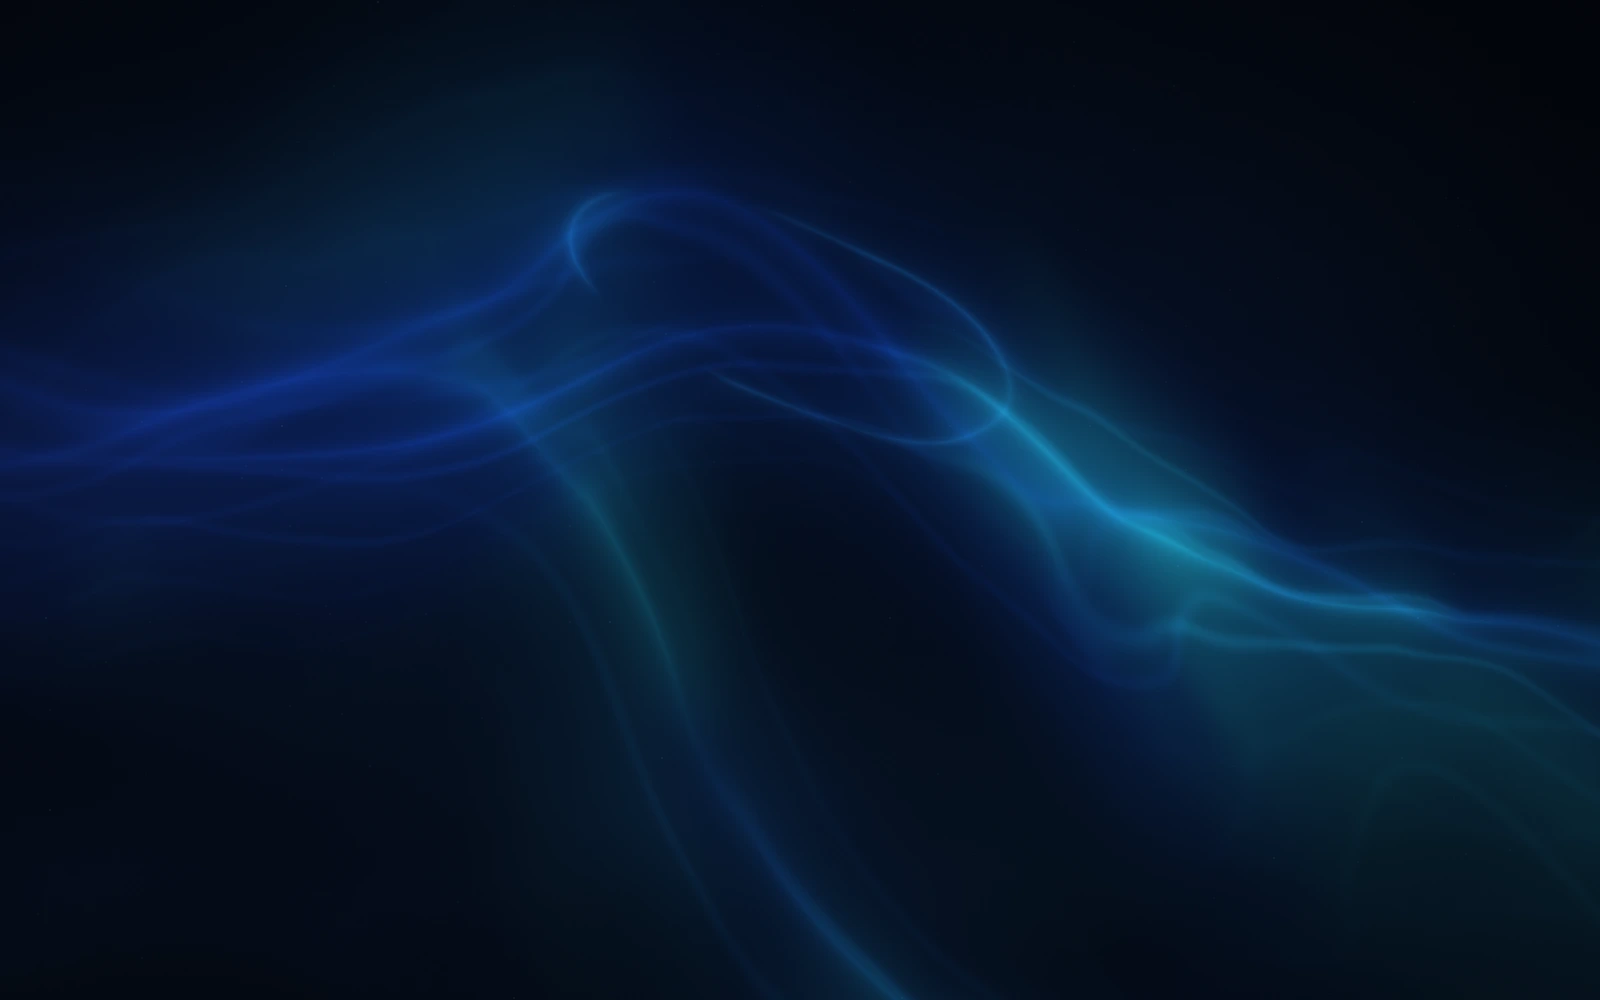
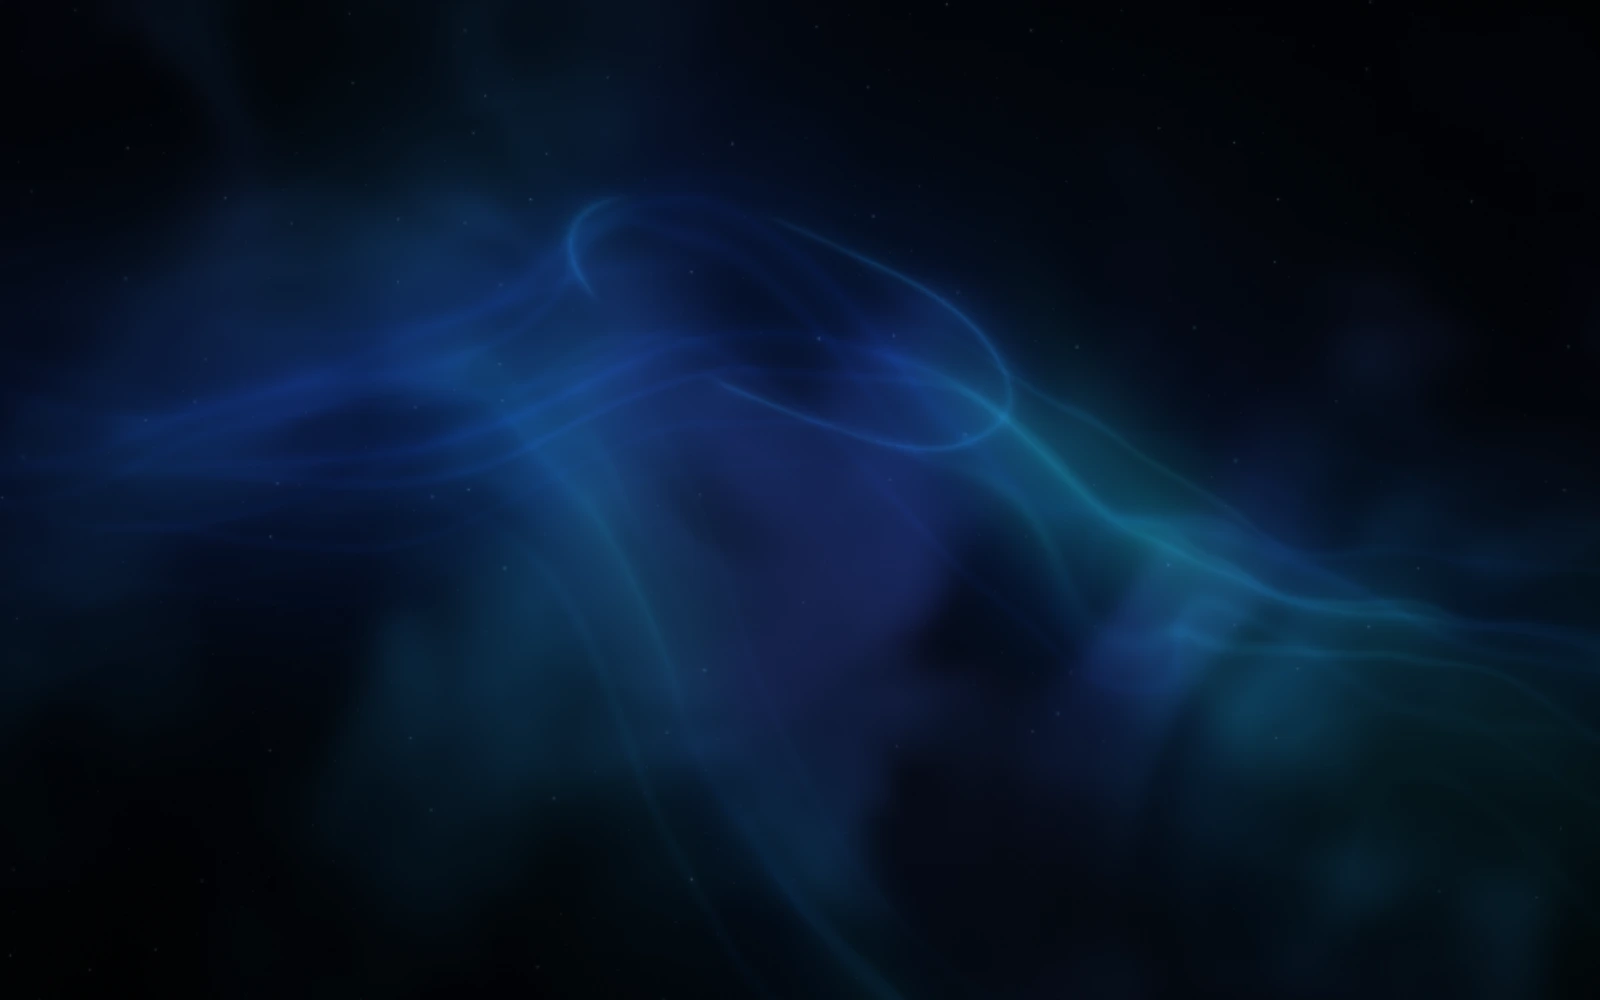
maybe thats what i want

diff --git a/src/frontend/src/lib/aurora/shaders.ts b/src/frontend/src/lib/aurora/shaders.ts
@@ -33,16 +33,46 @@ float fbm(vec2 p) {
   p = mat2(.8, -.6, .6, .8) * p * 2.01 + 7.3;
   return n + .09 * noise(p);
 }
+// Jittered cells avoid a visible grid. Each depth has its own scale, softness
+// and drift; the distant stars remain stationary while foreground dust moves.
+float stars(vec2 pixel, float spacing, float threshold, float radius) {
+  vec2 cell = floor(pixel/spacing);
+  vec2 center = vec2(hash(cell+17.3),hash(cell+41.8))*.6+.2;
+  vec2 delta = (fract(pixel/spacing)-center)*spacing;
+  float seed = hash(cell+9.1);
+  float core = exp(-dot(delta,delta)/(radius*radius));
+  float bloom = exp(-dot(delta,delta)/(radius*radius*12.0))*.045;
+  float shimmer = .83+.17*sin(time*.12+seed*129.0);
+  return (core+bloom)*step(threshold,seed)*(.35+.65*seed)*shimmer;
+}
 void main() {
   float scale = min(size.y, max(620.0, size.x * 1.4));
   // Top-down coordinates, shared with the DOM logo's measured position.
   vec2 p = (vec2(uv.x, 1.0-uv.y) * size - anchor) / scale;
   float t = time * .022;
   vec2 drift = vec2(t * .23, -t * .17);
-  float cloud = fbm(p * 2.1 + drift);
-  vec3 col = vec3(.006, .012, .027);
-  col += vec3(.008, .025, .055) * exp(-dot(p*vec2(.8,1.3),p*vec2(.8,1.3))*1.8);
-  col += vec3(.012, .025, .055) * cloud * cloud;
+  vec3 col = vec3(.003, .006, .015);
+
+  // Broad, irregular clouds sit behind the silk, with cooler emission in the
+  // depths and a little violet in the distant dust. Dark lanes absorb light
+  // instead of filling every empty region with an additive blue wash.
+  vec2 nebula = mat2(.91,-.41,.41,.91)*(p-vec2(.12,.22));
+  vec2 warp = vec2(fbm(nebula*1.7+drift*.3),fbm(nebula*1.9+vec2(8.1,2.4)-drift*.2));
+  float cloud = fbm(nebula*4.3+warp*2.6+drift*.14);
+  float wisps = fbm(nebula*10.0+warp*3.1-drift*.21);
+  float volume = exp(-nebula.y*nebula.y*2.7-nebula.x*nebula.x*.55);
+  float density = smoothstep(.23,.63,cloud)*volume;
+  float dustLane = smoothstep(.38,.65,fbm(nebula*3.1-warp*1.6+11.0));
+  float cavity = exp(-dot((p-vec2(.32,-.18))*vec2(1.8,2.6),(p-vec2(.32,-.18))*vec2(1.8,2.6)));
+  vec3 gas = mix(vec3(.066,.047,.15),vec3(.028,.17,.23),smoothstep(.26,.59,warp.x));
+  col += gas*density*(.36+wisps*.85)*(1.0-dustLane*.7)*(1.0-cavity*.52);
+  col += vec3(.018,.056,.105)*pow(density,2.0)*(1.0-dustLane)*1.2;
+  col += vec3(.009,.025,.048)*exp(-dot(p*vec2(.9,1.4),p*vec2(.9,1.4))*2.0);
+
+  vec2 sky = vec2(uv.x,1.0-uv.y)*size;
+  float extinction = 1.0-density*.62;
+  col += vec3(.48,.61,.83)*stars(sky,29.0,.73,.65)*.19*extinction;
+  col += vec3(.67,.81,1.0)*stars(sky+153.7,67.0,.79,1.05)*.43*extinction;
 
   // Three sheets occupy different depths. Domain warping changes their folds,
   // density and curvature, while broad scattering softens the fine filaments.
@@ -70,7 +100,7 @@ void main() {
     vec3 cyan = vec3(.12, .73, .82);
     vec3 tint = mix(blue, cyan, smoothstep(.28,.68,folds + p.x*.14));
     tint = mix(tint, vec3(.27,.19,.59), .14*smoothstep(.2,.8,-p.x));
-    col += tint * (veil + edge*.32 + scattering) * illumination * fade * 1.8;
+    col += tint * (veil + edge*.24 + scattering) * illumination * fade * 1.48;
   }
 
   // A broken, depth-occluded eddy curves into the mark. Its density comes
@@ -83,17 +113,15 @@ void main() {
   col += vec3(.12,.55,.82) * exp(-abs(eddyDistance)*210.0)*broken*.22;
   col += vec3(.025,.12,.20) * exp(-eddyDistance*eddyDistance*900.0)*broken*.2;
 
-  // Distant dust and a soft reflected pool give the scene scale without a grid
-  // or a literal horizon. Stars stay sparse and vary gently, never flashing.
-  float mist = fbm(p*vec2(2.2,4.8) + vec2(9.0, -t*.09));
-  col += vec3(.016,.055,.10) * mist * exp(-pow((p.y-.62)*5.0,2.0));
-  vec2 starCoord = (vec2(uv.x,1.0-uv.y)*size)/4.0;
-  vec2 cell = floor(starCoord);
-  float seed = hash(cell);
-  float star = pow(max(0.0,1.0-length(fract(starCoord)-.5)*2.0), 7.0);
-  star *= step(.997, seed) * (.22+.10*sin(time*.23 + seed*312.0));
-  col += vec3(.48,.70,1.0)*star;
-  float vignette = 1.0 - .4 * smoothstep(.25, 1.0, length((uv-.5)*vec2(1.0,.85)));
+  // A separate foreground veil partially obscures the silk. Its slow drift
+  // creates depth without camera motion or particles competing with the form.
+  float fog = fbm(p*vec2(3.1,2.0)+vec2(13.0,7.0)+drift*.43);
+  float foreground = smoothstep(.3,.68,fog)*exp(-pow((p.y-.58)*1.5,2.0));
+  col *= 1.0-foreground*.26-dustLane*volume*.14;
+  col += vec3(.016,.040,.065)*foreground*.55;
+  vec2 particles = sky + vec2(time*1.15,-time*.65);
+  col += vec3(.30,.57,.70)*stars(particles+57.0,137.0,.91,1.7)*.23;
+  float vignette = 1.0-.55*smoothstep(.18,.72,length((uv-.5)*vec2(.95,.85)));
   col *= vignette;
   // Dither below a display code value to prevent bands in dark gradients.
   col += (hash(gl_FragCoord.xy)-.5)/255.0;

diff --git a/src/frontend/src/components/AuthLogo.svelte b/src/frontend/src/components/AuthLogo.svelte
@@ -26,7 +26,7 @@
     flex: none;
     width: 236px;
     height: 236px;
-    margin: 0 auto 1.95rem;
+    margin: 0 auto 0.5rem;
     pointer-events: none;
   }
   img {
@@ -45,14 +45,14 @@
     .logo-stage {
       width: 192px;
       height: 192px;
-      margin-bottom: 1.45rem;
+      margin-bottom: 0.95rem;
     }
   }
   @media (max-height: 660px) {
     .logo-stage {
       width: 140px;
       height: 140px;
-      margin-bottom: 0.8rem;
+      margin-bottom: 0.3rem;
     }
   }
 </style>

diff --git a/src/frontend/src/components/AuroraScene.svelte b/src/frontend/src/components/AuroraScene.svelte
@@ -174,7 +174,7 @@
     aspect-ratio: 8 / 5;
     left: 50%;
     top: var(--aurora-anchor-y, 30vh);
-    transform: translate(-50%, -30.98%);
+    transform: translate(-50%, -31.58%);
     background: url("../assets/aurora-still.webp") center / 100% 100% no-repeat;
     -webkit-mask-image: linear-gradient(transparent, #000 10%, #000 85%, transparent);
     mask-image: linear-gradient(transparent, #000 10%, #000 85%, transparent);
